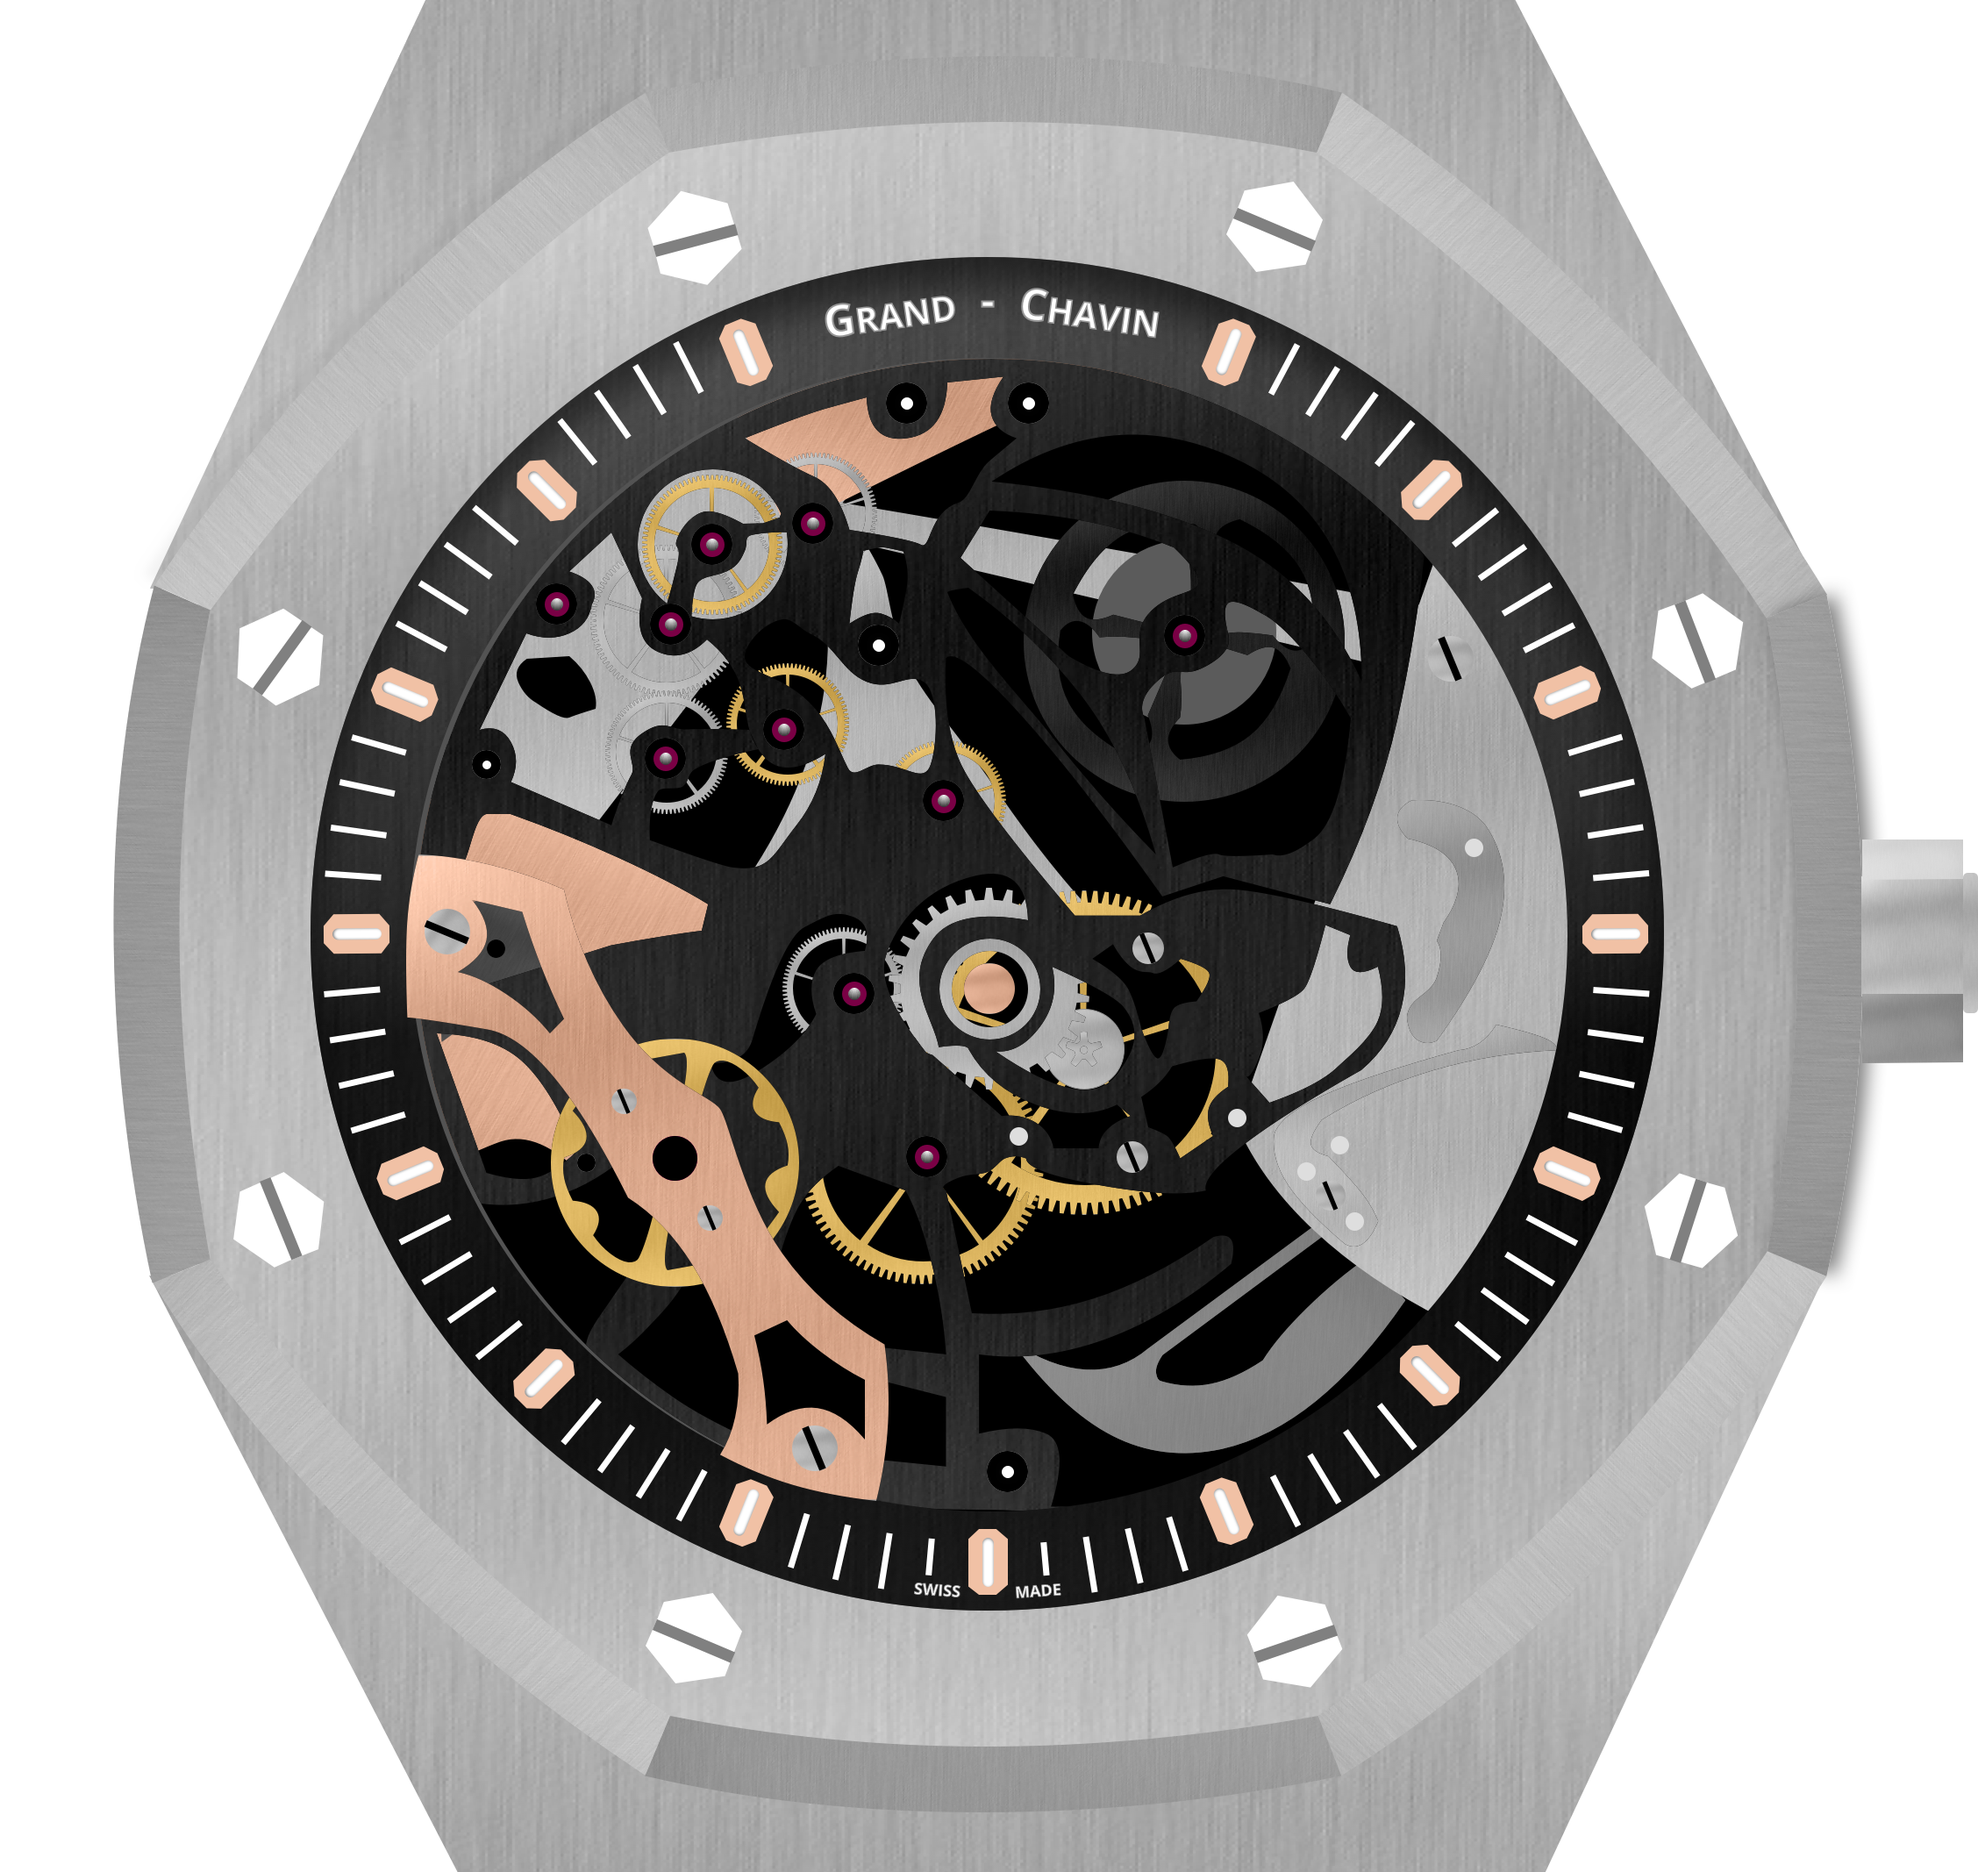
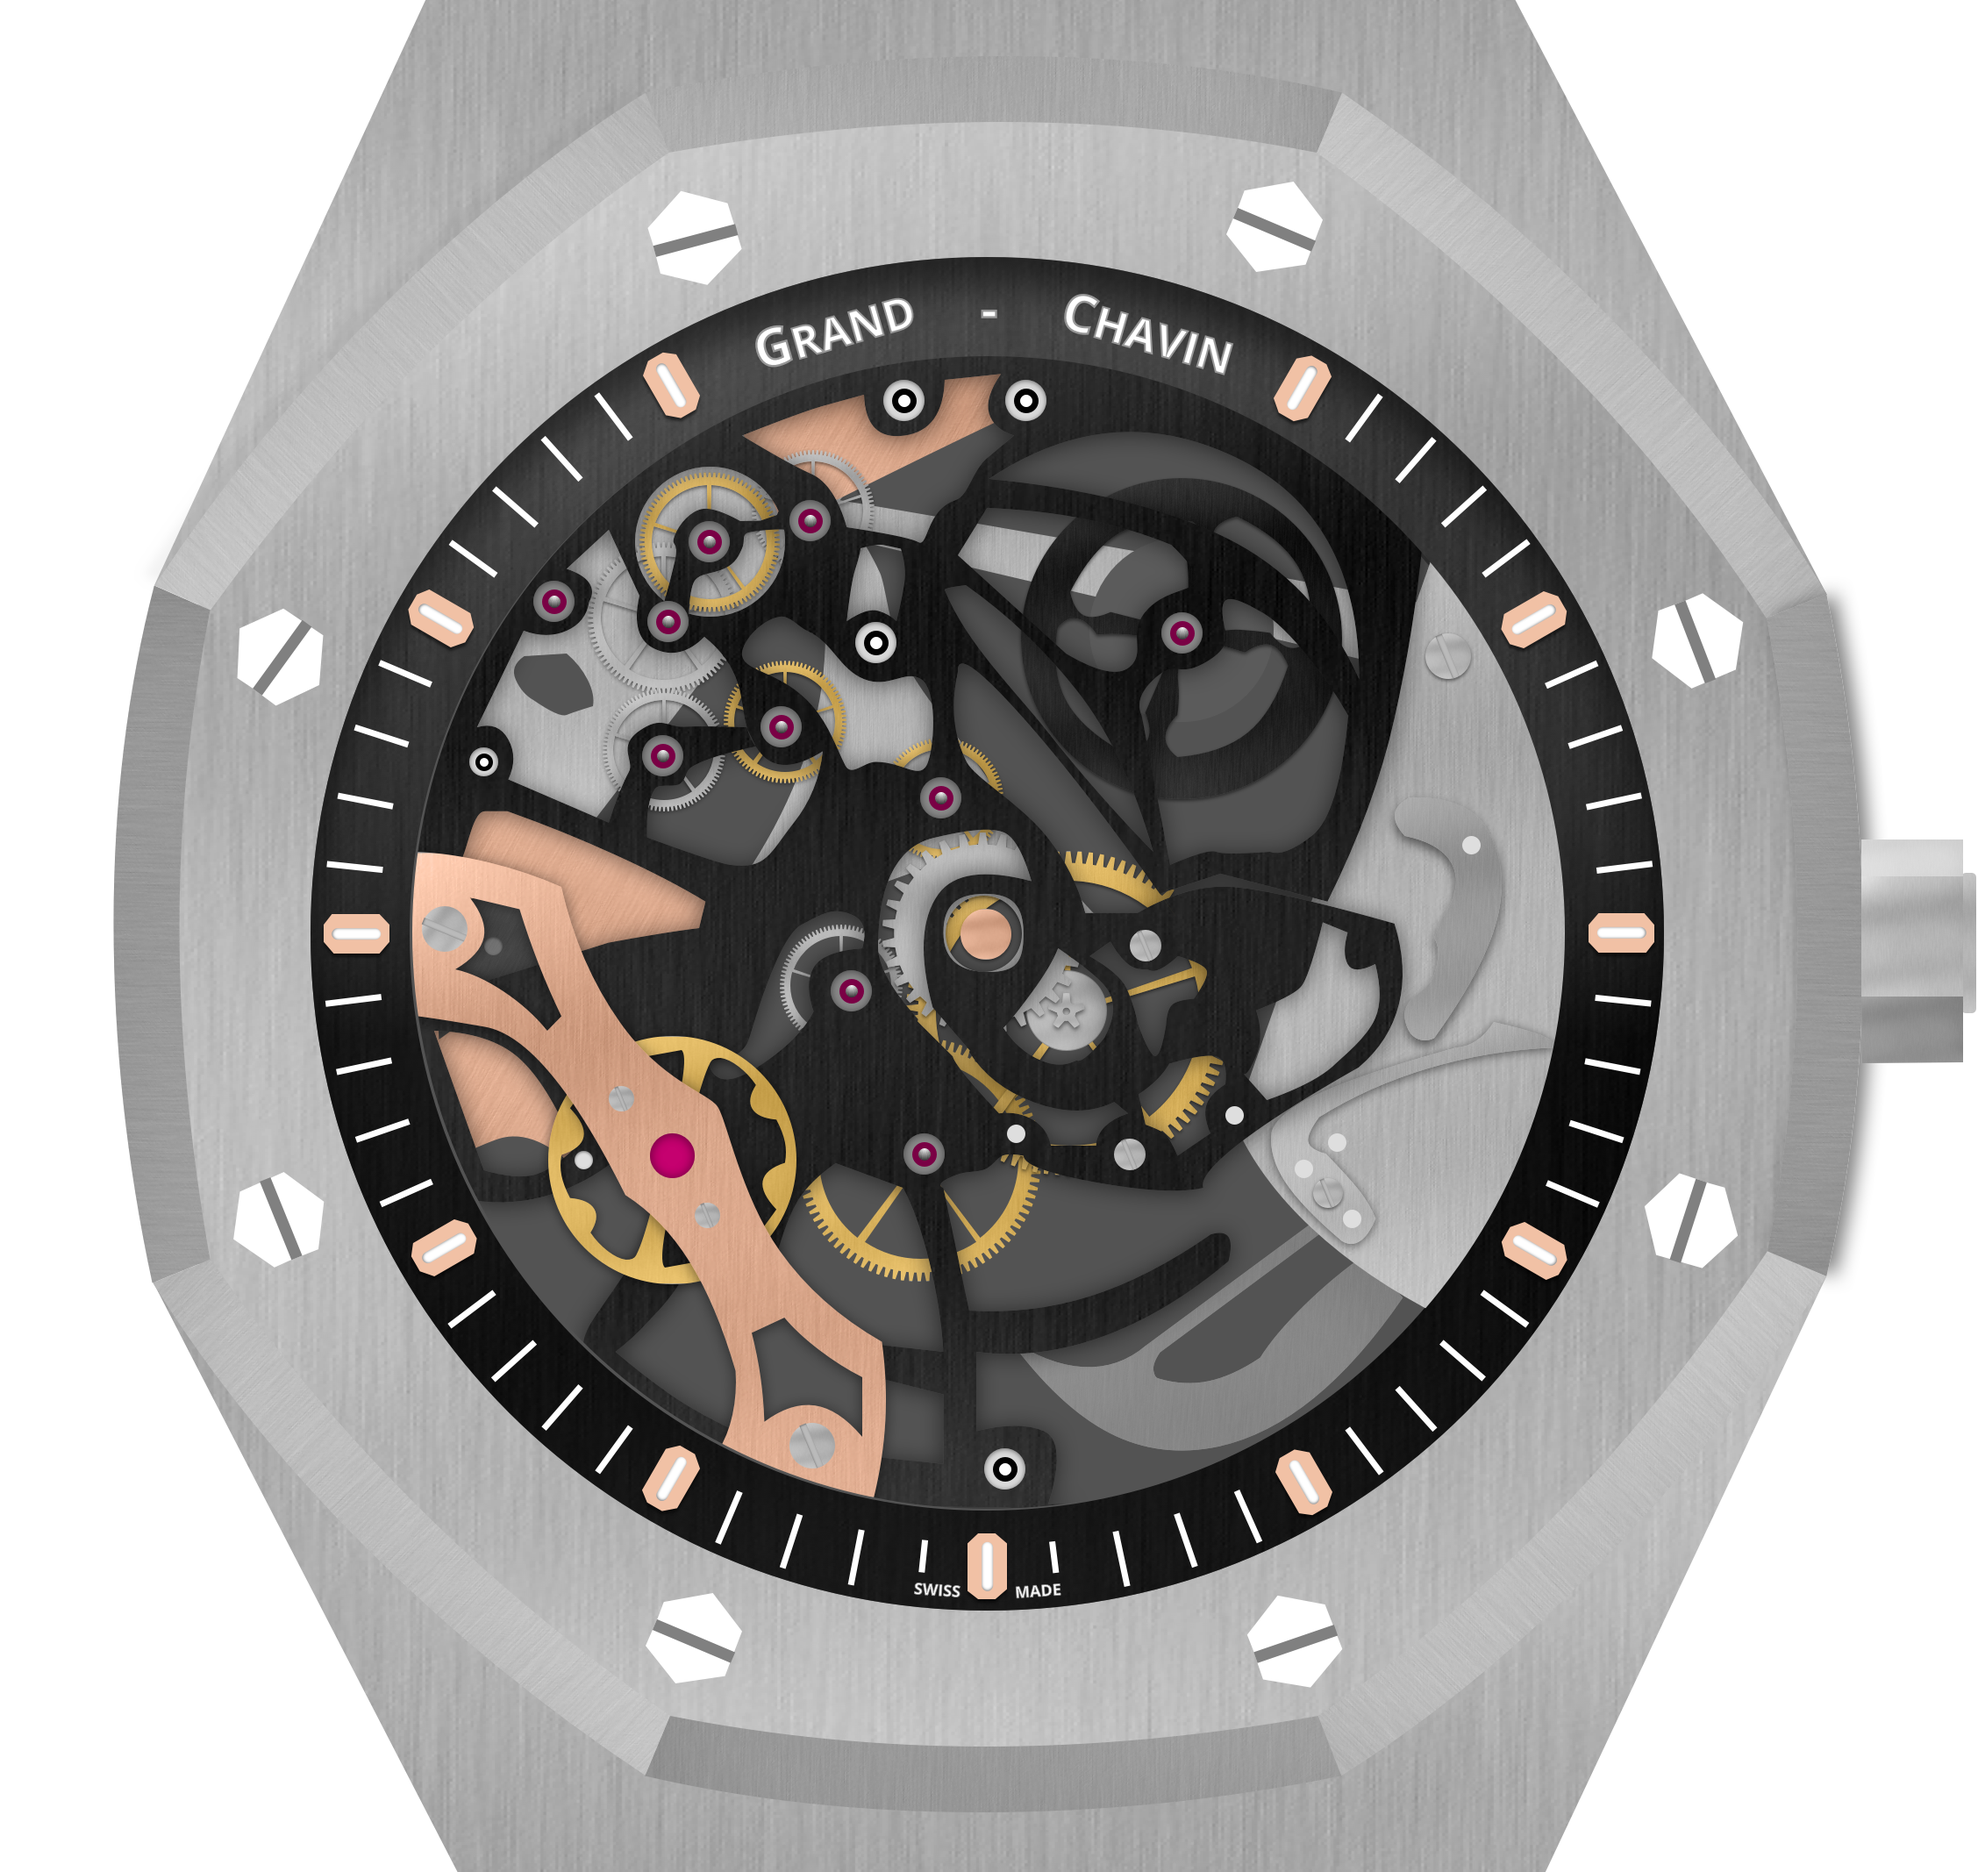
Hands and assets

Changed region(s): [[0.1552, 0.1546, 0.8381, 0.8351], [0.9933, 0.4639, 1.0, 0.5258]]

diff --git a/lib/ui/screens/watch_screen.dart b/lib/ui/screens/watch_screen.dart
@@ -1,5 +1,3 @@
-import 'dart:math';
-
 import 'package:flutter/material.dart';
 import 'package:swiss_clock/core/viewmodels/screens/watch_screen_model.dart';
 import 'package:swiss_clock/ui/shared/view_model_provider.dart';
@@ -14,7 +12,6 @@ class WatchScreen extends StatelessWidget {
       model: WatchScreenModel(context: context),
       builder: (WatchScreenModel model) {
         return Scaffold(
-          backgroundColor: Colors.black45,
           body: Container(
             child: StreamBuilder<DateTime>(
               stream: model.timeProvider.outDateTime,
@@ -24,34 +21,23 @@ class WatchScreen extends StatelessWidget {
                     child: Stack(
                   alignment: Alignment.center,
                   children: <Widget>[
-                    Positioned.fill(child: Image.asset('assets/png/watch.png')),
-                    Positioned(
-                      top: 80,
-                      child: Center(
-                        child: Transform.rotate(
-                            alignment: Alignment.bottomCenter,
-                            angle: dateTimeSnapshot.data.minute * pi / 30,
-                            child: MinuteHand()),
-                      ),
+                    Positioned.fill(
+                        child: Image.asset(
+                      'assets/png/watch.png',
+                      height: model.watchSize,
+                    )),
+                    HourHand(
+                      handSize: model.hourHandSize,
+                      currentHour: dateTimeSnapshot.data.hour,
                     ),
-                    Positioned(
-                      top: 115,
-                      child: Center(
-                        child: Transform.rotate(
-                            alignment: Alignment.bottomCenter,
-                            angle: dateTimeSnapshot.data.hour * pi / 6,
-                            child: HourHand()),
-                      ),
+                    MinuteHand(
+                      handSize: model.minutesHandSize,
+                      currentMinute: dateTimeSnapshot.data.minute,
                     ),
-                    Positioned(
-                      top: 82,
-                      child: Center(
-                        child: Transform.rotate(
-                            alignment: Alignment.bottomCenter,
-                            angle: dateTimeSnapshot.data.second * pi / 30,
-                            origin: Offset(0, -25),
-                            child: SecondHand()),
-                      ),
+                    SecondHand(
+                      currentSecond:
+                          (dateTimeSnapshot.data.millisecond / 1000) + dateTimeSnapshot.data.second,
+                      handSize: model.secondsHandSize,
                     ),
                   ],
                 ));

diff --git a/lib/ui/watch_components/second_hand.dart b/lib/ui/watch_components/second_hand.dart
@@ -1,17 +1,30 @@
+import 'dart:math';
+
 import 'package:flutter/material.dart';
 
 class SecondHand extends StatelessWidget {
+  final double currentSecond;
+  final double handSize;
+
+  SecondHand({@required this.currentSecond, @required this.handSize});
+
   @override
   Widget build(BuildContext context) {
-    return Transform.translate(
-      offset: Offset(0, 5),
-      child: Container(
-        height: 140,
-        child: Image.asset(
-          'assets/png/seconds_hand.png',
-          height: 140,
-          fit: BoxFit.fitHeight,
-        ),
+    return Positioned(
+      top: handSize * 0.355,
+      child: Center(
+        child: Transform.rotate(
+            alignment: Alignment.bottomCenter,
+            angle: currentSecond * pi / 30,
+            origin: Offset(0, -handSize * 0.22),
+            child: Container(
+              height: handSize,
+              child: Image.asset(
+                'assets/png/seconds_hand.png',
+                height: handSize,
+                fit: BoxFit.fitHeight,
+              ),
+            )),
       ),
     );
   }

diff --git a/lib/ui/watch_components/hour_hand.dart b/lib/ui/watch_components/hour_hand.dart
@@ -1,18 +1,30 @@
+import 'dart:math';
+
 import 'package:flutter/material.dart';
 
 class HourHand extends StatelessWidget {
+  final int currentHour;
+  final double handSize;
+
+  HourHand({@required this.currentHour, @required this.handSize});
+
   @override
   Widget build(BuildContext context) {
-    return Transform.translate(
-      offset: Offset(0, 5),
-      child: Container(
-        height: 80,
-        child: Image.asset(
-          'assets/png/hours_hand.png',
-          height: 80,
-          fit: BoxFit.fitHeight,
-        ),
-      ),
-    );
+    return Positioned(
+        top: handSize * 1.59,
+        child: Center(
+            child: Transform.rotate(
+          alignment: Alignment.bottomCenter,
+          origin: Offset(0, -8),
+          angle: currentHour * pi / 6,
+          child: Container(
+            height: handSize,
+            child: Image.asset(
+              'assets/png/hours_hand.png',
+              height: handSize,
+              fit: BoxFit.fitHeight,
+            ),
+          ),
+        )));
   }
 }

diff --git a/lib/ui/watch_components/minute_hand.dart b/lib/ui/watch_components/minute_hand.dart
@@ -1,16 +1,30 @@
+import 'dart:math';
+
 import 'package:flutter/material.dart';
 
 class MinuteHand extends StatelessWidget {
+  final int currentMinute;
+  final double handSize;
+
+  MinuteHand({@required this.currentMinute, @required this.handSize});
+
   @override
   Widget build(BuildContext context) {
-    return Transform.translate(
-      offset: Offset(0, 5),
-      child: Container(
-        height: 120,
-        child: Image.asset(
-          'assets/png/minutes_hand.png',
-          height: 120,
-          fit: BoxFit.fitHeight,
+    return Positioned(
+      top: handSize * 0.48,
+      child: Center(
+        child: Transform.rotate(
+          origin: Offset(0, -8),
+          alignment: Alignment.bottomCenter,
+          angle: currentMinute * pi / 30,
+          child: Container(
+            height: handSize,
+            child: Image.asset(
+              'assets/png/minutes_hand.png',
+              height: handSize,
+              fit: BoxFit.fitHeight,
+            ),
+          ),
         ),
       ),
     );

diff --git a/lib/ui/screens/splash_screen.dart b/lib/ui/screens/splash_screen.dart
@@ -8,7 +8,26 @@ class SplashScreen extends StatelessWidget {
     return ViewModelProvider<SplashScreenViewModel>(
       model: SplashScreenViewModel(context: context),
       builder: (SplashScreenViewModel model) {
-        return Scaffold();
+        return Scaffold(
+          body: Container(
+            child: Column(
+              crossAxisAlignment: CrossAxisAlignment.stretch,
+              mainAxisAlignment: MainAxisAlignment.center,
+              children: <Widget>[
+                Text(
+                  'Swiss Watch',
+                  textAlign: TextAlign.center,
+                  style: TextStyle(color: Colors.white, fontWeight: FontWeight.w700, fontSize: 25),
+                ),
+                Text(
+                  'by Julien Grand-Chavin',
+                  textAlign: TextAlign.center,
+                  style: TextStyle(color: Colors.white, fontWeight: FontWeight.w300, fontSize: 10),
+                )
+              ],
+            ),
+          ),
+        );
       },
     );
   }

diff --git a/lib/main.dart b/lib/main.dart
@@ -2,7 +2,7 @@ import 'package:flutter/material.dart';
 import 'package:flutter/services.dart';
 import 'package:provider/provider.dart';
 import 'package:swiss_clock/core/providers/time_provider.dart';
-import 'package:swiss_clock/ui/screens/watch_screen.dart';
+import 'package:swiss_clock/ui/screens/splash_screen.dart';
 
 void main() => runApp(MyApp());
 
@@ -17,8 +17,9 @@ class MyApp extends StatelessWidget {
         create: (_) => TimeProvider(),
         dispose: (_, provider) => provider.dispose(),
         child: MaterialApp(
+          theme: ThemeData(scaffoldBackgroundColor: Color(0xff202020)),
           title: 'Swiss Clock',
-          home: WatchScreen(),
+          home: SplashScreen(),
         ));
   }
 }

diff --git a/lib/core/viewmodels/screens/splash_screen_view_model.dart b/lib/core/viewmodels/screens/splash_screen_view_model.dart
@@ -1,5 +1,6 @@
 import 'package:flutter/cupertino.dart';
 import 'package:flutter/material.dart';
+import 'package:swiss_clock/core/utils/page_transition_utils.dart';
 import 'package:swiss_clock/core/viewmodels/base_view_model.dart';
 import 'package:swiss_clock/ui/screens/watch_screen.dart';
 
@@ -9,8 +10,9 @@ class SplashScreenViewModel extends BaseViewModel {
   }
 
   void _redirection() async {
-    Future.delayed(Duration(seconds: 2));
-    Navigator.of(context).pushReplacement(MaterialPageRoute(builder: (_) => WatchScreen()));
+    await Future.delayed(Duration(seconds: 2));
+    Navigator.of(context)
+        .pushReplacement(PageTransitionUtils.fadePageTransition(page: WatchScreen()));
   }
 
   @override

diff --git a/lib/core/viewmodels/screens/watch_screen_model.dart b/lib/core/viewmodels/screens/watch_screen_model.dart
@@ -2,5 +2,15 @@ import 'package:flutter/material.dart';
 import 'package:swiss_clock/core/viewmodels/base_view_model.dart';
 
 class WatchScreenModel extends BaseViewModel {
-  WatchScreenModel({@required BuildContext context}) : super(context: context);
+  double watchSize;
+  double secondsHandSize;
+  double minutesHandSize;
+  double hourHandSize;
+
+  WatchScreenModel({@required BuildContext context}) : super(context: context) {
+    watchSize = MediaQuery.of(context).size.height;
+    secondsHandSize = watchSize * 0.44;
+    minutesHandSize = watchSize * 0.35;
+    hourHandSize = watchSize * 0.20;
+  }
 }

diff --git a/lib/core/utils/page_transition_utils.dart b/lib/core/utils/page_transition_utils.dart
@@ -1,0 +1,12 @@
+import 'package:flutter/material.dart';
+import 'package:page_transition/page_transition.dart';
+
+class PageTransitionUtils {
+  /// Slide page transition
+  static Route slidePageTransition({@required Widget page}) => PageTransition(
+      type: PageTransitionType.rightToLeft, duration: Duration(milliseconds: 200), child: page);
+
+  /// Slide page transition
+  static Route fadePageTransition({@required Widget page}) =>
+      PageTransition(type: PageTransitionType.fade, duration: Duration(seconds: 1), child: page);
+}

diff --git a/lib/core/providers/time_provider.dart b/lib/core/providers/time_provider.dart
@@ -16,8 +16,9 @@ class TimeProvider extends BaseProvider {
 
   void _updateTime() {
     _inDateTime(DateTime.now());
-    print(DateTime.now().hour);
-    Timer(Duration(seconds: 1), () => _updateTime());
+    print(DateTime.now());
+
+    Timer(Duration(milliseconds: 250), () => _updateTime());
   }
 
   @override

diff --git a/android/app/src/main/kotlin/dev/juliengrandchavin/swiss_watch/MainActivity.kt b/android/app/src/main/kotlin/dev/juliengrandchavin/swiss_watch/MainActivity.kt
@@ -1,4 +1,4 @@
-package com.example.swiss_clock
+package dev.juliengrandchavin.swiss_watch
 
 import androidx.annotation.NonNull;
 import io.flutter.embedding.android.FlutterActivity
